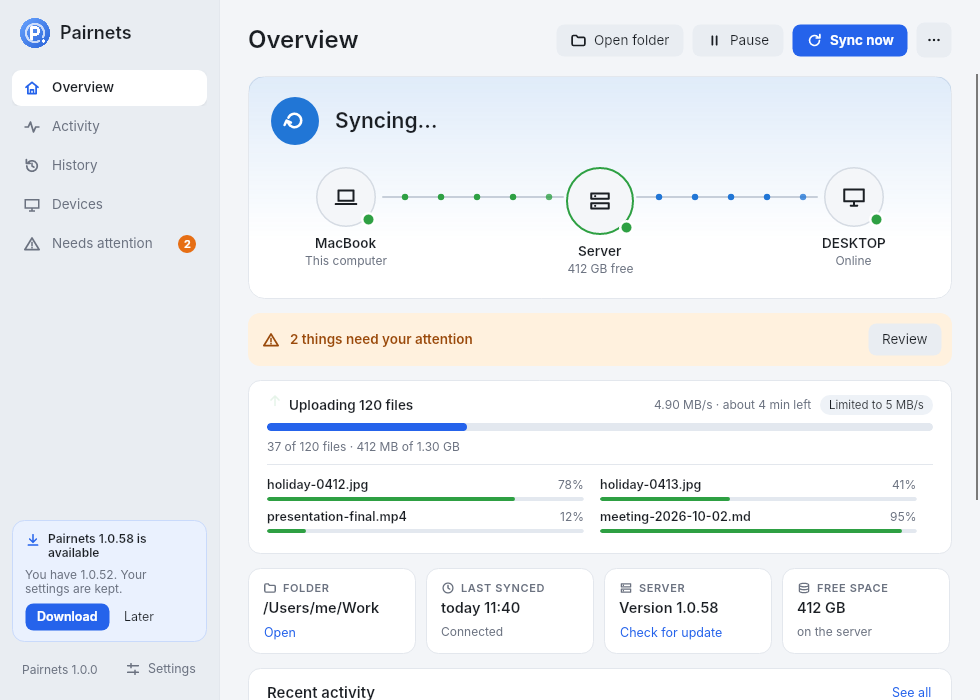
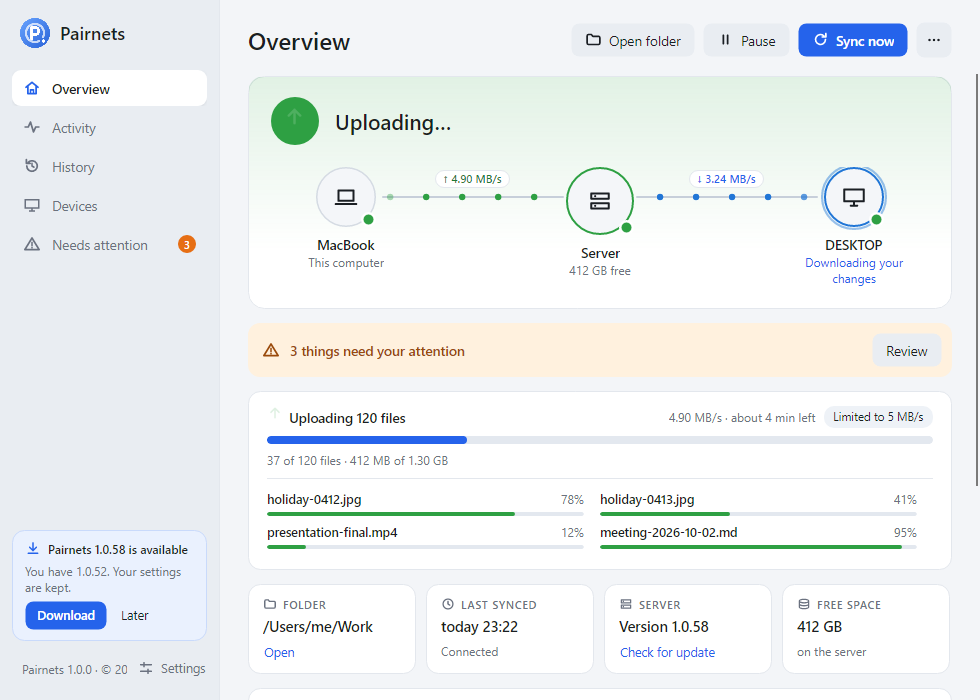
docs: screenshots with the moving map and the speed switch

diff --git a/tests/Pairnets.Tests/Ui/DesktopUiTests.cs b/tests/Pairnets.Tests/Ui/DesktopUiTests.cs
@@ -403,6 +403,11 @@ public class DesktopUiTests
             Status = RunnerStatus.Syncing, Text = "Syncing", LastSyncAt = now.AddMinutes(-1),
             CurrentPath = "Videos/presentation-final.mp4", Operation = "upload", BytesDone = 67_108_864, BytesTotal = 104_857_600,
             FilesDone = 37, FilesTotal = 120, PassBytesDone = 412L << 20, PassBytesTotal = 1331L << 20, BytesPerSecond = 4.9 * (1 << 20),
+            UploadBytesPerSecond = 4.9 * (1 << 20), MyChangeVersion = 120,
+            Peers = new Dictionary<string, PeerActivity>
+            {
+                ["DESKTOP"] = new(new Pairnets.Core.Sync.PeerTransfer(0, 3_400_000, false, true), utc, 80, utc.AddMinutes(-2)),
+            },
             LimitText = "Limited to 5 MB/s", Server = server, Devices = devices,
             Active =
             [
